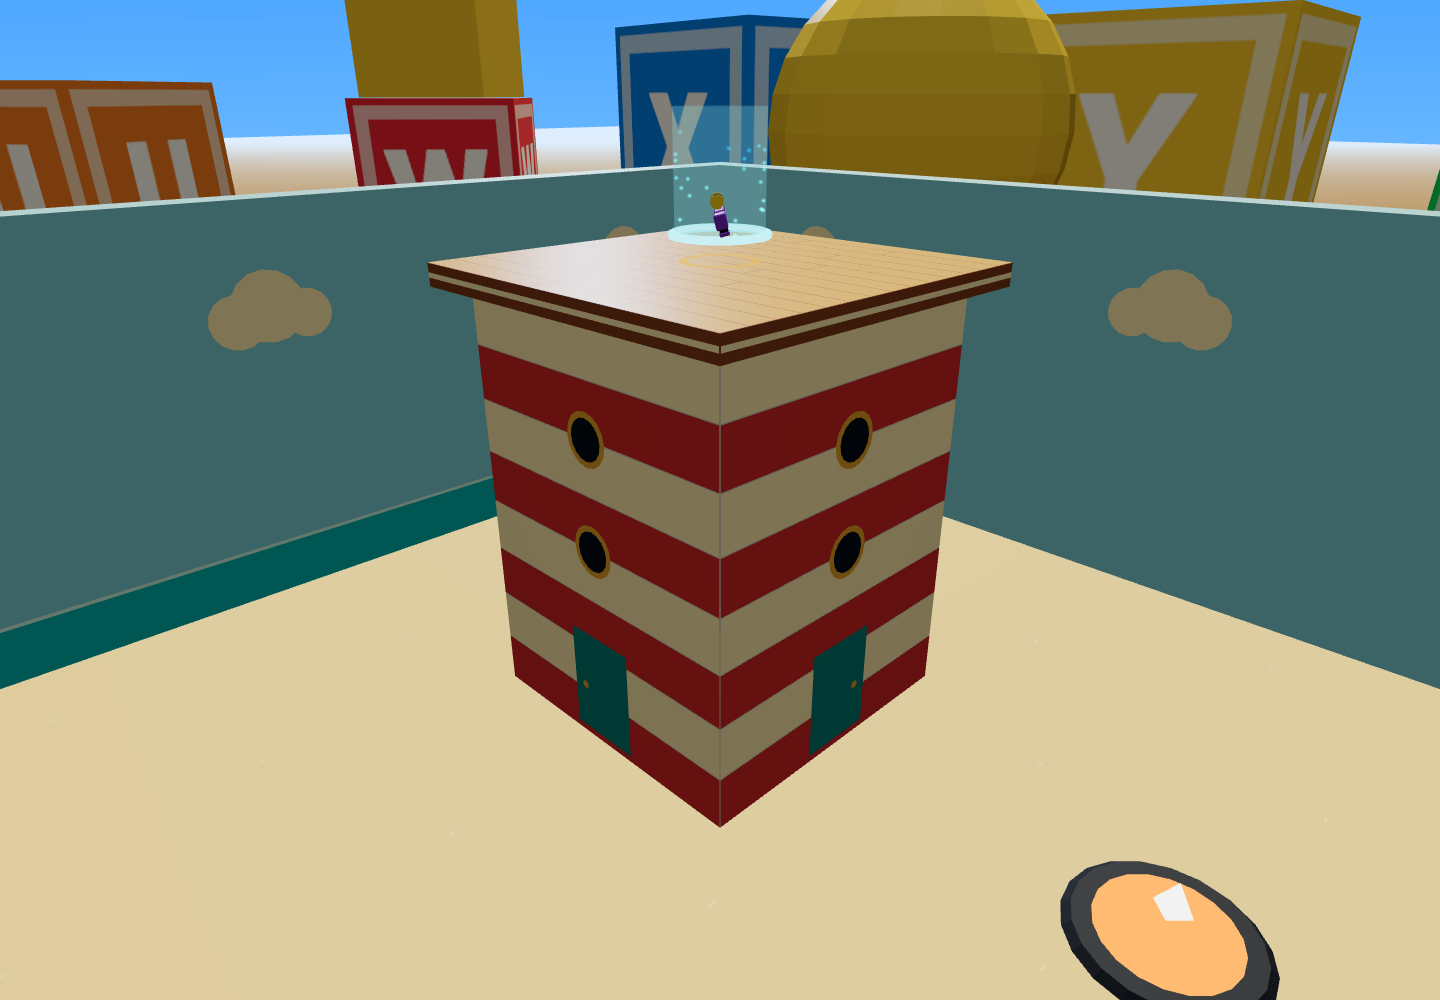
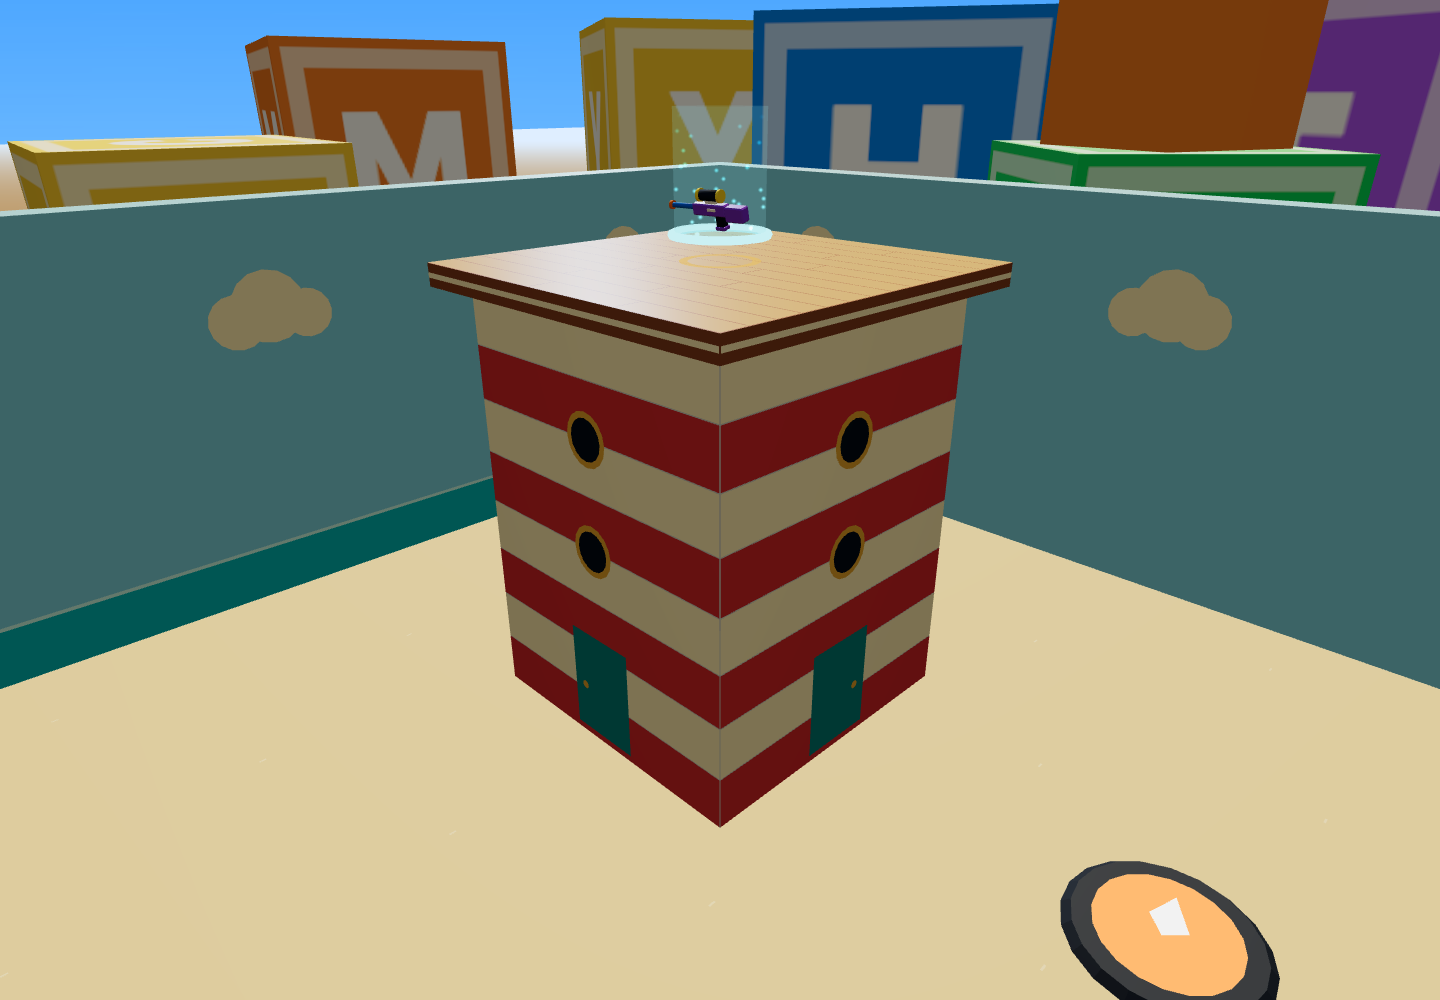
Visual pass over every map: giant toys no longer pass through each other
The playroom toys around the shooter arenas were placed at random and
overlapped each other and, near the corners, the arena itself; they are
now placed with a seeded layout that keeps them apart and outside the
walls. The flicker scan also checks that no scenery sits inside the play
area, and tools/views.js photographs every map for a visual check.

Changed region(s): [[0.0, 0.0, 1.0, 0.248], [0.7812, 0.868, 0.8438, 0.93]]

diff --git a/public/games/blasters.js b/public/games/blasters.js
@@ -281,12 +281,21 @@ registerGame('blasters', (G) => {
       // giant toys outside the walls: you are toy-sized in a playroom (hidden on Low graphics)
       const sceneryFrom = scene.children.length;
       const blockCols = ['#ff5d5d', '#4da6ff', '#ffd84d', '#5ee07a', '#c77dff', '#ff9f43'];
-      for (let i = 0; i < 22; i++) { const a = (i / 22) * Math.PI * 2 + Math.random() * 0.2, r = 58 + Math.random() * 40, sz = 9 + Math.random() * 10, col = blockCols[i % 6];
-        const letter = tex(128, 128, (c, w, h) => { c.fillStyle = col; c.fillRect(0, 0, w, h); c.strokeStyle = 'rgba(255,255,255,.7)'; c.lineWidth = 10; c.strokeRect(10, 10, w - 20, h - 20); c.fillStyle = '#fff'; c.font = '900 84px system-ui'; c.textAlign = 'center'; c.textBaseline = 'middle'; c.fillText('ABCDEFGHJKLMNPRSTUWXYZ'[i], w / 2, h / 2 + 6); });
-        const blk = bx(sz, sz, sz, new THREE.MeshStandardMaterial({ map: letter, roughness: 0.6 }), Math.cos(a) * r, sz / 2 - 0.05, Math.sin(a) * r); blk.rotation.y = Math.random() * 3; scene.add(blk);
-        if (i % 3 === 0) { const b2 = bx(sz * 0.8, sz * 0.8, sz * 0.8, M3(blockCols[(i + 2) % 6]), Math.cos(a) * r, sz + sz * 0.4, Math.sin(a) * r); b2.rotation.y = Math.random() * 3; scene.add(b2); } }
-      for (let i = 0; i < 6; i++) { const a = i * 1.05 + 0.4, r = 50 + (i % 3) * 14, ball = sph(5 + (i % 3) * 2, M3(blockCols[(i + 3) % 6], { roughness: 0.3 }), Math.cos(a) * r, 5 + (i % 3) * 2, Math.sin(a) * r, 18); scene.add(ball); }
-      for (let i = 0; i < 8; i++) { const a = i * 0.8 + 0.2, r = 46 + (i % 2) * 20, cr = cyl(1.3, 1.3, 26, M3(blockCols[i % 6]), Math.cos(a) * r, 1.3, Math.sin(a) * r, 8); cr.rotation.z = Math.PI / 2; cr.rotation.y = a * 2; scene.add(cr); const tip = mesh(new THREE.ConeGeometry(1.3, 3, 8), M3('#f2e3c4'), 0, 14.5, 0); cr.add(tip); }
+      /* placed so nothing passes through anything else: each toy claims circles on the floor and a spot is only used if it is free.
+         Seeded, so every player sees the same playroom. */
+      let seed = 1234 + MAP.id.length * 97; const rnd = () => { seed = (seed * 16807) % 2147483647; return seed / 2147483647; };
+      const taken = [], free = (pts) => pts.every(([x, z, r]) => Math.max(Math.abs(x), Math.abs(z)) - r > MAP.size + 6 && /* the arena is a square: stay clear of its corners too */ taken.every(([tx, tz, tr]) => Math.hypot(x - tx, z - tz) > r + tr + 1.5));
+      const claim = (pts) => { for (const q of pts) taken.push(q); };
+      for (let i = 0, tries = 0; i < 22 && tries < 600; tries++) { const a = rnd() * Math.PI * 2, r = 54 + rnd() * 46, sz = 9 + rnd() * 10, x = Math.cos(a) * r, z = Math.sin(a) * r;
+        if (!free([[x, z, sz * 0.72]])) continue; claim([[x, z, sz * 0.72]]); const col = blockCols[i % 6], li = i;
+        const letter = tex(128, 128, (c, w, h) => { c.fillStyle = col; c.fillRect(0, 0, w, h); c.strokeStyle = 'rgba(255,255,255,.7)'; c.lineWidth = 10; c.strokeRect(10, 10, w - 20, h - 20); c.fillStyle = '#fff'; c.font = '900 84px system-ui'; c.textAlign = 'center'; c.textBaseline = 'middle'; c.fillText('ABCDEFGHJKLMNPRSTUWXYZ'[li], w / 2, h / 2 + 6); });
+        const blk = bx(sz, sz, sz, new THREE.MeshStandardMaterial({ map: letter, roughness: 0.6 }), x, sz / 2, z); blk.rotation.y = rnd() * 3; scene.add(blk);
+        if (i % 3 === 0) { const b2 = bx(sz * 0.62, sz * 0.62, sz * 0.62, M3(blockCols[(i + 2) % 6]), x, sz + sz * 0.31, z); b2.rotation.y = blk.rotation.y + 0.4; scene.add(b2); } /* small enough to sit inside the top face at any turn */
+        i++; }
+      for (let i = 0, tries = 0; i < 6 && tries < 300; tries++) { const a = rnd() * Math.PI * 2, r = 50 + rnd() * 40, rad = 5 + (i % 3) * 2, x = Math.cos(a) * r, z = Math.sin(a) * r; if (!free([[x, z, rad]])) continue; claim([[x, z, rad]]); scene.add(sph(rad, M3(blockCols[(i + 3) % 6], { roughness: 0.3 }), x, rad, z, 18)); i++; }
+      for (let i = 0, tries = 0; i < 8 && tries < 400; tries++) { const a = rnd() * Math.PI * 2, r = 50 + rnd() * 40, x = Math.cos(a) * r, z = Math.sin(a) * r, turn = rnd() * Math.PI, dx = Math.cos(turn), dz = Math.sin(turn);
+        const pts = [-12, -6, 0, 6, 12, 15].map((u) => [x + dx * u, z + dz * u, 2.2]); if (!free(pts)) continue; claim(pts);
+        const cr = cyl(1.3, 1.3, 26, M3(blockCols[i % 6]), x, 1.3, z, 8); cr.rotation.order = 'YXZ'; cr.rotation.y = -turn; cr.rotation.z = Math.PI / 2; scene.add(cr); const tip = mesh(new THREE.ConeGeometry(1.3, 3, 8), M3('#f2e3c4'), 0, 14.5, 0); cr.add(tip); i++; }
       for (let i = sceneryFrom; i < scene.children.length; i++) scene.children[i].userData.scenery = true;
       if (cloudGroup) cloudGroup.userData.scenery = true;
       for (const o of scene.children) if (o.userData.scenery) o.visible = GFX().scenery;
@@ -552,6 +561,7 @@ registerGame('blasters', (G) => {
         if (shake > 0.01 && !reducedMotion) { camera.position.x += (Math.random() - 0.5) * shake * 0.35; camera.position.y += (Math.random() - 0.5) * shake * 0.35; shake *= Math.pow(0.02, dt); }
         const zf = adsOf(me.w), fov = baseFov / (1 + (zf - 1) * me.zoom) + (st && st.pw === 'speed' ? 8 : 0) + (body.slideT > 0 ? 5 : 0); if (Math.abs(camera.fov - fov) > 0.05) { camera.fov += (fov - camera.fov) * Math.min(1, dt * 14); camera.updateProjectionMatrix(); }
         updateViewModel(dt);
+        if (window.__camOverride) { const o = window.__camOverride; camera.position.set(o.p[0], o.p[1], o.p[2]); camera.lookAt(o.l[0], o.l[1], o.l[2]); camera.updateMatrixWorld(); } /* tools/views.js only */
         renderer.clear(); camera.layers.set(0); renderer.shadowMap.needsUpdate=true; renderer.render(scene, camera);
         { const fovNow = camera.fov, bg = scene.background; renderer.clearDepth(); camera.layers.set(VM_LAYER); camera.fov = 78; camera.updateProjectionMatrix(); scene.background = null;
           renderer.render(scene, camera); scene.background = bg; camera.fov = fovNow; camera.updateProjectionMatrix(); camera.layers.set(0); }

diff --git a/tools/views.js b/tools/views.js
@@ -1,0 +1,21 @@
+// Dev tool: photographs every map of both games from fixed cameras (a high overview from two corners and a low ground view)
+// so a person can look for things that do not line up. Saves tools/shots/view_<game>_<map>_<n>.png. Needs the server on :3000.
+const { chromium } = require('playwright-core'); const path = require('path'), fs = require('fs'), os = require('os');
+const cache = path.join(os.homedir(), 'Library/Caches/ms-playwright'); const dir = fs.readdirSync(cache).filter((d) => /^chromium_headless_shell-\d+$/.test(d)).sort().pop();
+const exe = path.join(cache, dir, 'chrome-headless-shell-mac-arm64/chrome-headless-shell'); const sleep = (ms) => new Promise((r) => setTimeout(r, ms));
+const KM = require('../public/memekarts-maps.js').map((m) => m.id), BM = require('../public/games/blasters.shared.js').MAPS.map((m) => m.id);
+(async () => {
+  const b = await chromium.launch({ executablePath: exe, headless: true, args: ['--use-angle=metal', '--enable-gpu', '--ignore-gpu-blocklist'] }); const errs = [];
+  for (const [game, maps] of [['memekarts', KM], ['blasters', BM]]) for (const map of maps) {
+    const p = await (await b.newContext({ viewport: { width: 1280, height: 760 } })).newPage(); p.on('pageerror', (e) => errs.push(map + ': ' + e.message));
+    await p.goto(`http://localhost:3000/?game=${game}&bltest=1&gfx=high`); await p.fill('#name', 'V'); await p.click('#createBtn'); await p.waitForSelector('#lobby:not(.hidden)');
+    await p.evaluate((m) => document.querySelector(`#mapPicker [data-map="${m}"]`).click(), map); await sleep(200); await p.evaluate(() => document.querySelector('#botAdd').click()); await sleep(200);
+    await p.evaluate(() => document.querySelector('#startBtn').click()); await p.waitForSelector('#game:not(.hidden)'); await sleep(4000);
+    const S = game === 'memekarts' ? 900 : 34, H = game === 'memekarts' ? 1 : 0.04;
+    const cams = game === 'memekarts' ? [[[-S * 1.05, 900, -S * 0.75], [0, 0, 0]], [[S * 1.05, 700, S * 0.75], [0, 0, 0]], [[-S * 0.55, 90, S * 0.15], [S * 0.2, 30, -S * 0.1]]]
+      : [[[-S * 1.2, 40, -S * 1.2], [0, 0, 0]], [[S * 1.2, 30, S * 1.1], [0, 0, 0]], [[-S * 0.75, 2.2, S * 0.3], [S * 0.3, 2, -S * 0.2]]];
+    for (let i = 0; i < cams.length; i++) { await p.evaluate((c) => { window.__camOverride = { p: c[0], l: c[1] }; }, cams[i]); await sleep(700); await p.screenshot({ path: path.join(__dirname, 'shots', `view_${game}_${map}_${i}.png`) }); }
+    await p.context().close();
+  }
+  console.log('views saved; page errors', errs.length, errs.slice(0, 3).join(' | ')); await b.close(); process.exit(0);
+})().catch((e) => { console.error('TEST CRASHED:', e.message.split('\n')[0]); process.exit(1); });

diff --git a/tools/zfight.js b/tools/zfight.js
@@ -35,6 +35,10 @@ const JOBS = [...require('../public/memekarts-maps.js').map((m) => ['memekarts',
           const pp = a.plane && c.plane && Math.abs(a.bb.min[d] - c.bb.min[d]) < eps && Math.abs(a.pn[k]) > 0.9 && Math.abs(c.pn[k]) > 0.9;
           const planeOn = pf(a, c) || pf(c, a) || pp;
           if (same || planeOn) { out.push(`${d}: ${a.name} [${a.bb.min[d].toFixed(2)}..${a.bb.max[d].toFixed(2)}]  <->  ${c.name} [${c.bb.min[d].toFixed(2)}..${c.bb.max[d].toFixed(2)}]`); break; } } }
+      // scenery (trees, mountains, giant toys...) must stay outside the play area, and must not pass through other scenery
+      const km = window.MEMEKARTS_MAPS && window.G.room && window.MEMEKARTS_MAPS.find((m) => m.id === window.G.room.mapId), bm = window.BLASTERS && window.BLASTERS.mapById(window.G.room.blastersMap);
+      const hx = window.G.room.gameId === 'memekarts' ? km.w / 2 : bm.size, hz = window.G.room.gameId === 'memekarts' ? km.h / 2 : bm.size, sc = scene.children.filter((o) => o.userData.scenery && o.visible && !(o.isGroup && o.children.length > 6 && o.children.every((c) => c.position.y > 20 || (c.children[0] && c.position.y > 20)))).map((o) => ({ o, bb: new T.Box3().setFromObject(o) }));
+      for (const { o, bb } of sc) { const c = bb.getCenter(new T.Vector3()); if (bb.min.x < hx && bb.max.x > -hx && bb.min.z < hz && bb.max.z > -hz && bb.max.y > 0.5) out.push(`scenery inside the play area: ${o.type} @${c.toArray().map((x) => x.toFixed(1)).join(',')}`); }
       return { n: items.length, out };
     }, eps);
     total += found.out.length; console.log(`${game}/${map}: ${found.n} surfaces checked, ${found.out.length} flush pairs`); for (const l of found.out.slice(0, 12)) console.log('   ' + l);

diff --git a/public/games/memekarts.js b/public/games/memekarts.js
@@ -708,6 +708,7 @@ registerGame('memekarts', (G) => {
       camera.fov=damp(camera.fov,reducedMotion?(portrait?82:62):fov,5,dt);camera.updateProjectionMatrix();
       if (shake > 0.01) { if(!reducedMotion){camera.position.x += Math.sin(time*61) * shake * 3; camera.position.y += Math.sin(time*47) * shake * 2;}shake *= Math.pow(0.02, dt); }
       camera.lookAt(look);
+      if (window.__camOverride) { const o = window.__camOverride; camera.position.set(o.p[0], o.p[1], o.p[2]); camera.lookAt(o.l[0], o.l[1], o.l[2]); } /* tools/views.js only: photograph the map from a fixed spot */
       /* keep the shadow box centred on what the camera is looking at (snapped so shadows do not shimmer) */
       if (sunLight) { const fx = Math.round(look.x / 16) * 16, fz = Math.round(look.z / 16) * 16; sunLight.target.position.set(fx, 0, fz); sunLight.position.set(fx - 320, 430, fz + 240); }
     }

diff --git a/tools/coplanar.js b/tools/coplanar.js
@@ -13,4 +13,4 @@ for (const m of K) { const bx = [];
   for (const d of m.decks) { const inset = d.z ? 0.6 : 0; bx.push({ x0: d.x + inset, x1: d.x + d.w - inset, z0: d.y + inset, z1: d.y + d.h - inset, y0: 0, y1: K.deckZ(d), tag: (d.z ? 'tier2 ' : 'deck ') + [d.x, d.y, d.w, d.h] }); }
   scan('karts/' + m.id, bx); }
 for (const m of B.MAPS) scan('blasters/' + m.id, m.boxes.filter((b) => b.t !== 'wall' && b.t !== 'step').map((b) => ({ x0: b.x0, x1: b.x1, z0: b.z0, z1: b.z1, y0: b.y0, y1: b.y1, tag: b.t + ' ' + [b.x0, b.z0, b.x1, b.z1, b.y0, b.y1] })));
-console.log(bad ? `${bad} shared faces` : 'no shared faces in any map (6 maps scanned)'); process.exit(bad ? 1 : 0);
+console.log(bad ? `${bad} shared faces` : `no shared faces in any map (${K.length + B.MAPS.length} maps scanned)`); process.exit(bad ? 1 : 0);

diff --git a/CLAUDE.md b/CLAUDE.md
@@ -27,7 +27,7 @@ Browser party games for friends on a call. Node + Express + Socket.IO server, va
   - `node tools/refresh.js [gameId]` — real page refresh in the lobby and mid-game, plus the Leave button.
   - `node tools/kart-items-check.js` — every Meme Karts item fired at placed karts, asserting the logical outcome (hits, homing, bounces, steals, immunities, timers). `node tools/blasters-items-check.js` — every shooter pickup, power-up and hitscan blaster rule on both maps. Run both after touching items. Power-ups: `POWERS` in the shared file; `rare: true` ones come up through `rollPower()` (25%): `inf` (no ammo use, server), `vamp` (heal on hit, server), `moon` (`body.grav` in the shared physics, set by the client and the bots), `bighead` (client-only: bigger `headR` in `rayPlayer` and scaled heads), `shadow` (server: hits do 999; client: figure hidden from enemies; bots ignore them).
   - `node tools/mobile.js` — the site on an emulated iPhone. Both main games draw a minimap in the top-left of the HUD (you as a marker, players, hazards) with the match numbers under it; the shooter shows enemies only when close or just fired (`recentShot`).  (touch, no pointer lock): home and lobby fit, Meme Karts d-pad, Toy Box Blasters joystick / look drag / fire button. Touch controls: `.kart-touch-controls` in `public/games/memekarts.js` (Codex's), `.bl-touch` built by `buildTouch()` in `public/games/blasters.js` (shown only under `pointer:coarse`; the shooter runs soft-locked on touch). `#rotateHint` asks for landscape.
-  - `node tools/gfx.js` — the graphics setting (`public/gfx.js`: Low/Medium/High in `localStorage.fg_gfx`, `?gfx=` override; games read `window.FG_GFX.cfg()` and apply live on the `fg-gfx` event via `T.applyGfx()`). `node tools/zfight.js` — walks the rendered scene of all six maps for flush same-facing surfaces (z-fighting). Timing-based browser drives (`kart-ramp.js`) fail when several run at once; run them one at a time.
+  - `node tools/gfx.js` — the graphics setting (`public/gfx.js`: Low/Medium/High in `localStorage.fg_gfx`, `?gfx=` override; games read `window.FG_GFX.cfg()` and apply live on the `fg-gfx` event via `T.applyGfx()`). `node tools/zfight.js` — walks the rendered scene of every map for flush same-facing surfaces (z-fighting) and for scenery inside the play area. `node tools/views.js` photographs every map from three fixed cameras (`window.__camOverride`) for a visual pass. Timing-based browser drives (`kart-ramp.js`) fail when several run at once; run them one at a time.
   - Toy Box Blasters rounds: 3 minutes, then the winner for `NEXT_IN` (6 s) and `newRound()` on the same map unless the lobby option is One match (`api.memory.blastersRounds === 'one'`, which `tools/fullrun.js` uses). Figure, skin and starter blaster are picked BEFORE a game, on the home page (3D preview) and in the lobby (`public/toy-picker.js`, localStorage `tbb_char`/`tbb_skin`/`tbb_lo`, read by the game at start); the in-game L menu is settings only. `node tools/toy.js` checks it. The home page gallery images come from `node tools/gallery.js` (`public/img/shots/`). The HUD shows the held blaster as a picture rendered from its model (`T.icon(w)`).
   - `node tools/items.js [mapId]`, `node tools/playnow.js`, `node tools/shapes.js`, `node tools/glbinfo.js <file.glb>`.
 
